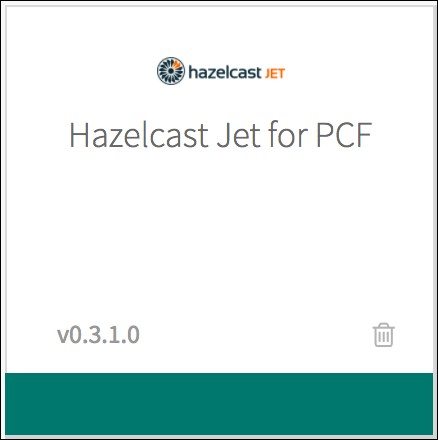
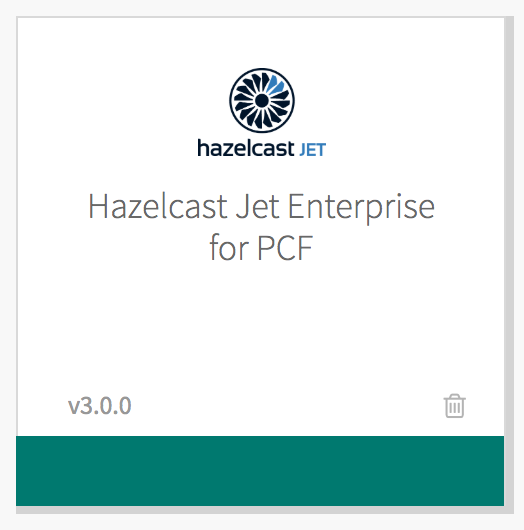
3.0.0

Changed region(s): [[0.0, 0.0, 1.0, 1.0], [0.1484, 0.1182, 0.8607, 0.4432], [0.3858, 0.4432, 0.5936, 0.5023]]

diff --git a/README.md b/README.md
@@ -1,5 +1,3 @@
-## Tile Retired from Pivotal Network. This Documentation Repo is now obsolete.
-
 ## Pivotal Cloud Foundry Partners Template
 
 This template helps partners prepare documentation for Pivotal Cloud Foundry (PCF) partner services that appear on [Pivotal Network](https://network.pivotal.io/). 
